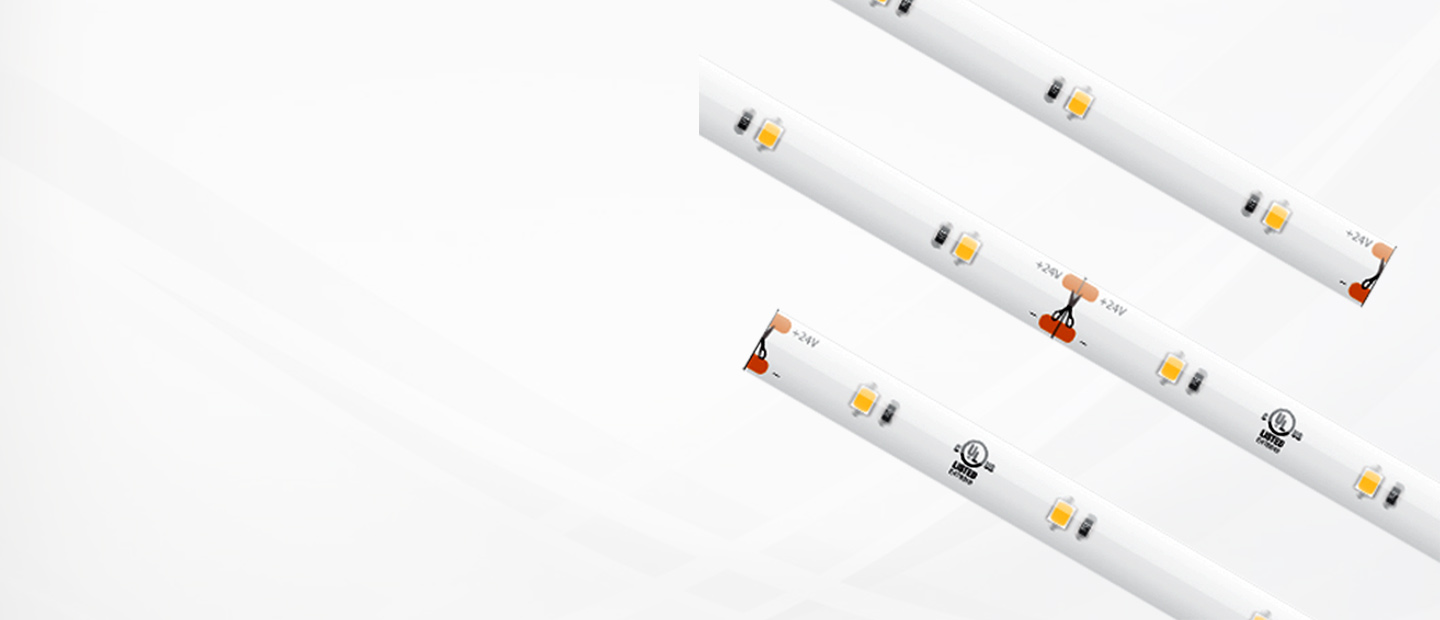
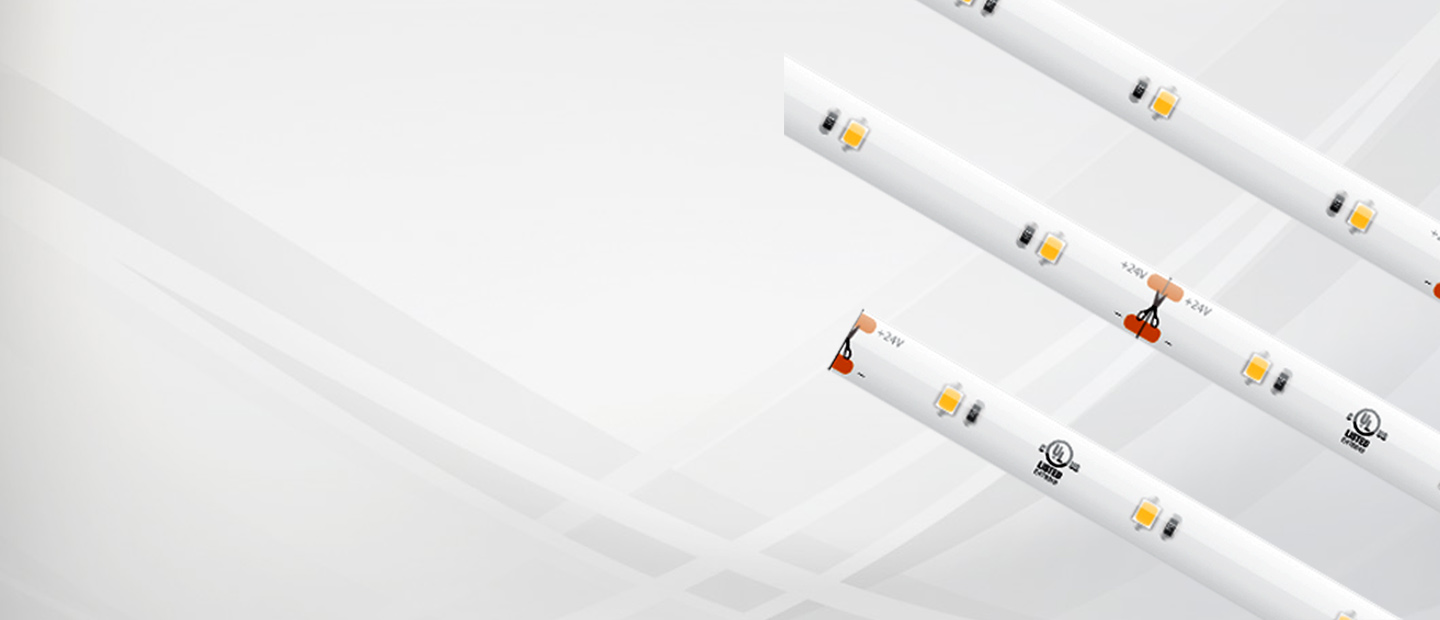
category page carousel

diff --git a/src/components/home/Hero.js b/src/components/home/Hero.js
@@ -20,9 +20,7 @@ class Hero extends React.Component {
 									<Col xs="8">
 										<div className="text-center">
 											<Zoom right cascade delay={500} opposite>
-												<h3 className="display-4 text-white font-weight-bold m-0">
-													{name}
-												</h3>
+												<h3 className="display-4 text-white m-0">{name}</h3>
 											</Zoom>
 											<Fade bottom delay={1500} opposite>
 												<p className="text-white py-4">{desc}</p>
@@ -83,7 +81,7 @@ class Hero extends React.Component {
 										<Row className="justify-content-center">
 											<Col xs="9">
 												<div className="text-center">
-													<Zoom cascade delay={500}>
+													<Zoom delay={500}>
 														<h1 className="display-1 text-uppercase font-weight-normal text-white m-0">
 															American Lighting
 														</h1>

diff --git a/src/components/categoryCarousel/categoryCarousel.scss b/src/components/categoryCarousel/categoryCarousel.scss
@@ -1,13 +1,33 @@
 .category-atf {
   height: 500px !important;
+  &:after {
+    content: "";
+    position: absolute;
+    z-index: 0;
+    top: 0;
+    left: 0;
+    width: 100%;
+    height: 100%;
+    background: rgba(0, 0, 0, 0.45);
+    display: none;
+  }
 }
 
 .category-carousel {
+  p {
+    margin-bottom: 0;
+  }
+
+  .atf-nav-left,
+  .atf-nav-right {
+    background: rgba(0, 0, 0, 0.4) !important;
+  }
+
   .carousel {
     position: relative;
+    z-index: 1;
     overflow: hidden;
-    margin-top: -300px;
-    padding-top: 300px;
+    padding-top: 50px;
     /*height: 500px;*/
   }
 
@@ -35,7 +55,7 @@
     font-size: 1.5em;
     cursor: pointer;
     user-select: none;
-    color: #ffffff;
+    color: #232323;
     -webkit-touch-callout: none;
     /* iOS Safari */
     -webkit-user-select: none;

diff --git a/src/pages/sample-category.js b/src/pages/sample-category.js
@@ -3,6 +3,7 @@ import { graphql } from "gatsby"
 import Layout from "../components/layout"
 import SEO from "../components/seo"
 import { Link, Events, animateScroll as scroll, scroller } from "react-scroll"
+import { LazyLoadComponent } from "react-lazy-load-image-component"
 
 //images
 import TLSStandard from "../images/sample-products/tls-standard-grade.png"
@@ -80,7 +81,9 @@ class CategoryPage extends React.Component {
 		return (
 			<Layout location={this.props.location} title={siteTitle}>
 				<SEO title="Category" description={siteDescription} />
-				<PrizmCarousel />
+				<LazyLoadComponent>
+					<PrizmCarousel />
+				</LazyLoadComponent>
 				<div className="py-10 bg-light">
 					<div className="container">
 						<div className="row justify-content-between">

diff --git a/src/components/categoryCarousel/prizmTapeLight.js b/src/components/categoryCarousel/prizmTapeLight.js
@@ -20,10 +20,10 @@ class PrizmTapeLight extends React.Component {
 									<Col xs={{ span: 8, offset: 2 }} md={{ span: 7, offset: 1 }}>
 										<div className="text-left">
 											<Fade right delay={500} opposite>
-												<h3 className="display-4 text-white m-0">{tagline}</h3>
+												<h3 className="display-4 m-0">{tagline}</h3>
 											</Fade>
 											<Fade bottom delay={1500} opposite>
-												<p className="text-white py-4 lead">{name}</p>
+												<p className="py-4 lead">{name}</p>
 											</Fade>
 											<Flip bottom delay={2000} opposite>
 												<Link to="/" className="btn btn-primary">

diff --git a/src/components/layout.scss b/src/components/layout.scss
@@ -162,20 +162,16 @@ body {
     /* manage display headers for mobile devices */
     .display-1 {
       font-size: 3rem !important;
-      font-weight: inherit !important;
       hyphens: auto;
     }
     .display-2 {
       font-size: 2.75rem !important;
-      font-weight: inherit !important;
     }
     .display-3 {
       font-size: 2.25rem !important;
-      font-weight: inherit !important;
     }
     .display-4 {
       font-size: 1.75rem !important;
-      font-weight: inherit !important;
     }
   }
   /***** end of TYPEFACE ******/
